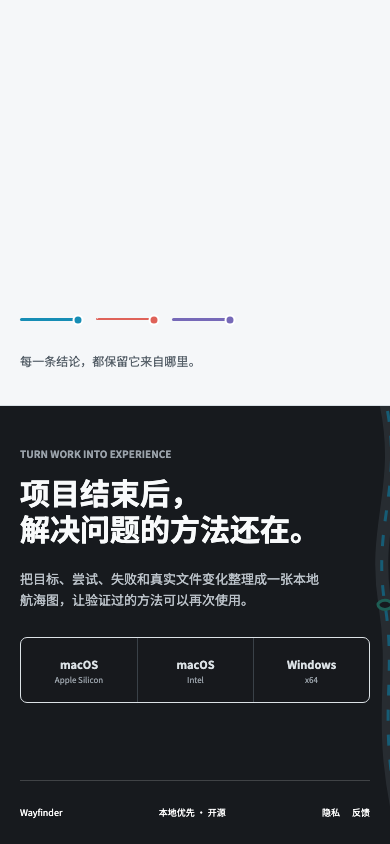
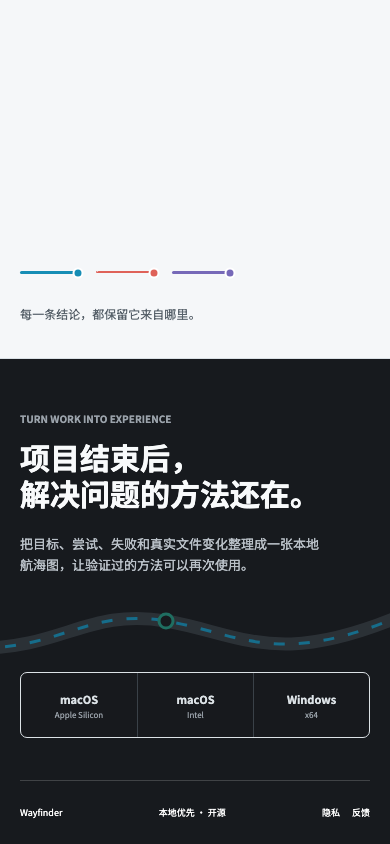
fix(website): restore the phone route
Why: The final phone route was clipped to a thin edge and the focused product image claimed five waypoints while showing three.

What: Place the animated route in a dedicated band above downloads, relabel the portrait proof as three waypoints, and refresh cache keys and review assets.

Verification: npm run check (213 tests); npm audit; 320x568 and 390x844 Chromium screenshots; pixel-identical 1440x900 and full-page desktop captures.

diff --git a/website/index.html b/website/index.html
@@ -24,7 +24,7 @@
   <title>Wayfinder — 把 AI 协作过程变成可回看的航海图</title>
   <link rel="icon" href="./wayfinder-icon.svg" type="image/svg+xml">
   <link rel="apple-touch-icon" href="./wayfinder-icon.png">
-  <link rel="stylesheet" href="./styles.css?v=0.3.14-mobile-layout-v2">
+  <link rel="stylesheet" href="./styles.css?v=0.3.14-mobile-layout-v3">
   <script type="application/ld+json">
     {
       "@context": "https://schema.org",
@@ -412,7 +412,7 @@
       <figure class="product-visual">
         <picture>
           <source media="(max-width: 540px)"
-            srcset="./login-voyage-mobile-2k.png?v=map-mobile-0.3.14">
+            srcset="./login-voyage-mobile-2k.png?v=map-mobile-3-0.3.14">
           <img src="./login-voyage-focus-4k.png?v=map-0.3.14"
             alt="Wayfinder 示例航程细节，清晰展示登录问题的失败分支、有效路径、验证节点与沉淀结果"
             loading="lazy" decoding="async" draggable="false">
@@ -458,18 +458,18 @@
           d="M-80 570 C220 570 180 180 480 246 S720 650 1280 150"></path>
         <circle cx="480" cy="246" r="9"></circle>
       </svg>
-      <svg class="final-route-phone" viewBox="0 0 390 600"
-        preserveAspectRatio="none" aria-hidden="true">
-        <path class="final-route-shadow"
-          d="M382-30 C408 106 371 153 385 272 S371 432 410 624"></path>
-        <path class="final-route-line"
-          d="M382-30 C408 106 371 153 385 272 S371 432 410 624"></path>
-        <circle cx="385" cy="272" r="7"></circle>
-      </svg>
       <div class="final-copy">
         <p class="eyebrow">TURN WORK INTO EXPERIENCE</p>
         <h2 id="download-title">项目结束后，解决问题的方法还在。</h2>
         <p>Wayfinder 把目标、尝试、失败和真实文件变更整理成一张本地航海图，让走过的弯路和验证过的方法都能被再次使用。</p>
+        <svg class="final-route-phone" viewBox="0 0 390 72"
+          preserveAspectRatio="none" aria-hidden="true">
+          <path class="final-route-shadow"
+            d="M-20 54 C62 54 90 14 166 27 S278 76 410 18"></path>
+          <path class="final-route-line"
+            d="M-20 54 C62 54 90 14 166 27 S278 76 410 18"></path>
+          <circle cx="166" cy="27" r="7"></circle>
+        </svg>
         <div class="download-grid final-downloads" role="group"
           aria-label="下载 Wayfinder">
           <a class="download-option" data-download="arm64"
@@ -496,6 +496,6 @@
       </div>
     </section>
   </main>
-  <script src="./app.js?v=0.3.14-mobile-layout-v2" defer></script>
+  <script src="./app.js?v=0.3.14-mobile-layout-v3" defer></script>
 </body>
 </html>

diff --git a/docs/mobile-review/index.html b/docs/mobile-review/index.html
@@ -144,7 +144,7 @@
           <div class="focused-map">
             <div class="map-toolbar">
               <span>登录回跳稳定性</span>
-              <span>5 个航点</span>
+              <span>3 个航点</span>
             </div>
             <svg viewBox="0 0 350 378" preserveAspectRatio="none" aria-hidden="true">
               <rect width="350" height="378" fill="#e7f6fa"></rect>
@@ -222,21 +222,20 @@
         </div>
 
         <div class="download-band">
-          <svg class="final-route-mobile" viewBox="0 0 390 674"
-            preserveAspectRatio="none" aria-hidden="true">
-            <path class="final-route-shadow"
-              d="M382-30 C408 120 371 173 385 306 S371 486 410 704"></path>
-            <path class="final-route-line"
-              d="M382-30 C408 120 371 173 385 306 S371 486 410 704"></path>
-            <circle cx="385" cy="306" r="7"></circle>
-          </svg>
-
           <div class="final-message">
             <p class="phone-eyebrow">TURN WORK INTO EXPERIENCE</p>
             <h2>项目结束后，<br>解决问题的方法还在。</h2>
             <p>
               把目标、尝试、失败和真实文件变化整理成一张本地航海图，让验证过的方法可以再次使用。
             </p>
+            <svg class="final-route-mobile" viewBox="0 0 390 72"
+              preserveAspectRatio="none" aria-hidden="true">
+              <path class="final-route-shadow"
+                d="M-20 54 C62 54 90 14 166 27 S278 76 410 18"></path>
+              <path class="final-route-line"
+                d="M-20 54 C62 54 90 14 166 27 S278 76 410 18"></path>
+              <circle cx="166" cy="27" r="7"></circle>
+            </svg>
             <div class="phone-downloads final-options" aria-label="Wayfinder 下载平台">
               <a href="#">
                 <strong>macOS</strong>

diff --git a/docs/mobile-review/review.css b/docs/mobile-review/review.css
@@ -641,8 +641,8 @@ a {
 .previous-section-tail {
   position: relative;
   display: grid;
-  height: 406px;
-  padding: 230px 20px 35px;
+  height: 359px;
+  padding: 183px 20px 35px;
   align-content: end;
   grid-template-columns: 62px 62px 62px;
   gap: 14px;
@@ -694,18 +694,19 @@ a {
 
 .download-band {
   position: relative;
-  height: 438px;
+  height: 485px;
   overflow: hidden;
   color: #f8fafb;
   background: #171a1e;
 }
 
 .final-route-mobile {
-  position: absolute;
-  inset: 0;
-  width: 100%;
-  height: 100%;
-  opacity: .58;
+  position: relative;
+  display: block;
+  width: calc(100% + 40px);
+  height: 72px;
+  margin: 18px -20px 0;
+  opacity: .72;
 }
 
 .final-route-mobile path,
@@ -735,7 +736,7 @@ a {
 .final-message {
   position: relative;
   z-index: 2;
-  padding: 42px 20px 0;
+  padding: 54px 20px 0;
 }
 
 .final-message .phone-eyebrow {
@@ -760,7 +761,7 @@ a {
 
 .final-options {
   width: 350px;
-  margin-top: 26px;
+  margin-top: 6px;
   color: #dce2e6;
   background: rgba(23, 26, 30, .94);
 }

diff --git a/website/styles.css b/website/styles.css
@@ -1824,7 +1824,7 @@ footer a {
     display: block;
     height: auto;
     min-height: 0;
-    padding: 54px 20px 104px;
+    padding: 54px 20px 88px;
     text-align: left;
   }
 
@@ -1833,12 +1833,12 @@ footer a {
   }
 
   .final-route-phone {
-    position: absolute;
-    inset: 0;
+    position: relative;
     display: block;
-    width: 100%;
-    height: 100%;
-    opacity: .58;
+    width: calc(100% + 40px);
+    height: 72px;
+    margin: 18px -20px 0;
+    opacity: .72;
   }
 
   .final-route-phone path,
@@ -1866,7 +1866,7 @@ footer a {
   .final-downloads {
     width: 100%;
     max-width: none;
-    margin-top: 26px;
+    margin-top: 6px;
     grid-template-columns: repeat(3, minmax(0, 1fr));
     background: rgba(23, 26, 30, .94);
   }
@@ -1948,6 +1948,12 @@ footer a {
 
   .final-copy h2 {
     font-size: 28px;
+  }
+
+  .final-route-phone {
+    width: calc(100% + 32px);
+    margin-right: -16px;
+    margin-left: -16px;
   }
 }
 

diff --git a/docs/MOBILE-REDESIGN.md b/docs/MOBILE-REDESIGN.md
@@ -110,7 +110,7 @@ Reduced-motion users receive the final successful state without animation.
 - The product-proof copy uses mobile grid ordering so the heading, image,
   explanation, proof labels, and privacy link remain in narrative order.
 - The final phone section is content-driven, uses one segmented download row,
-  and moves its decorative route to the outer edge.
+  and gives its decorative route a dedicated band between copy and downloads.
 - `website/app.js` drives desktop and phone voyages from the same timeline but
   keeps their SVG nodes and coordinates independent.
 
